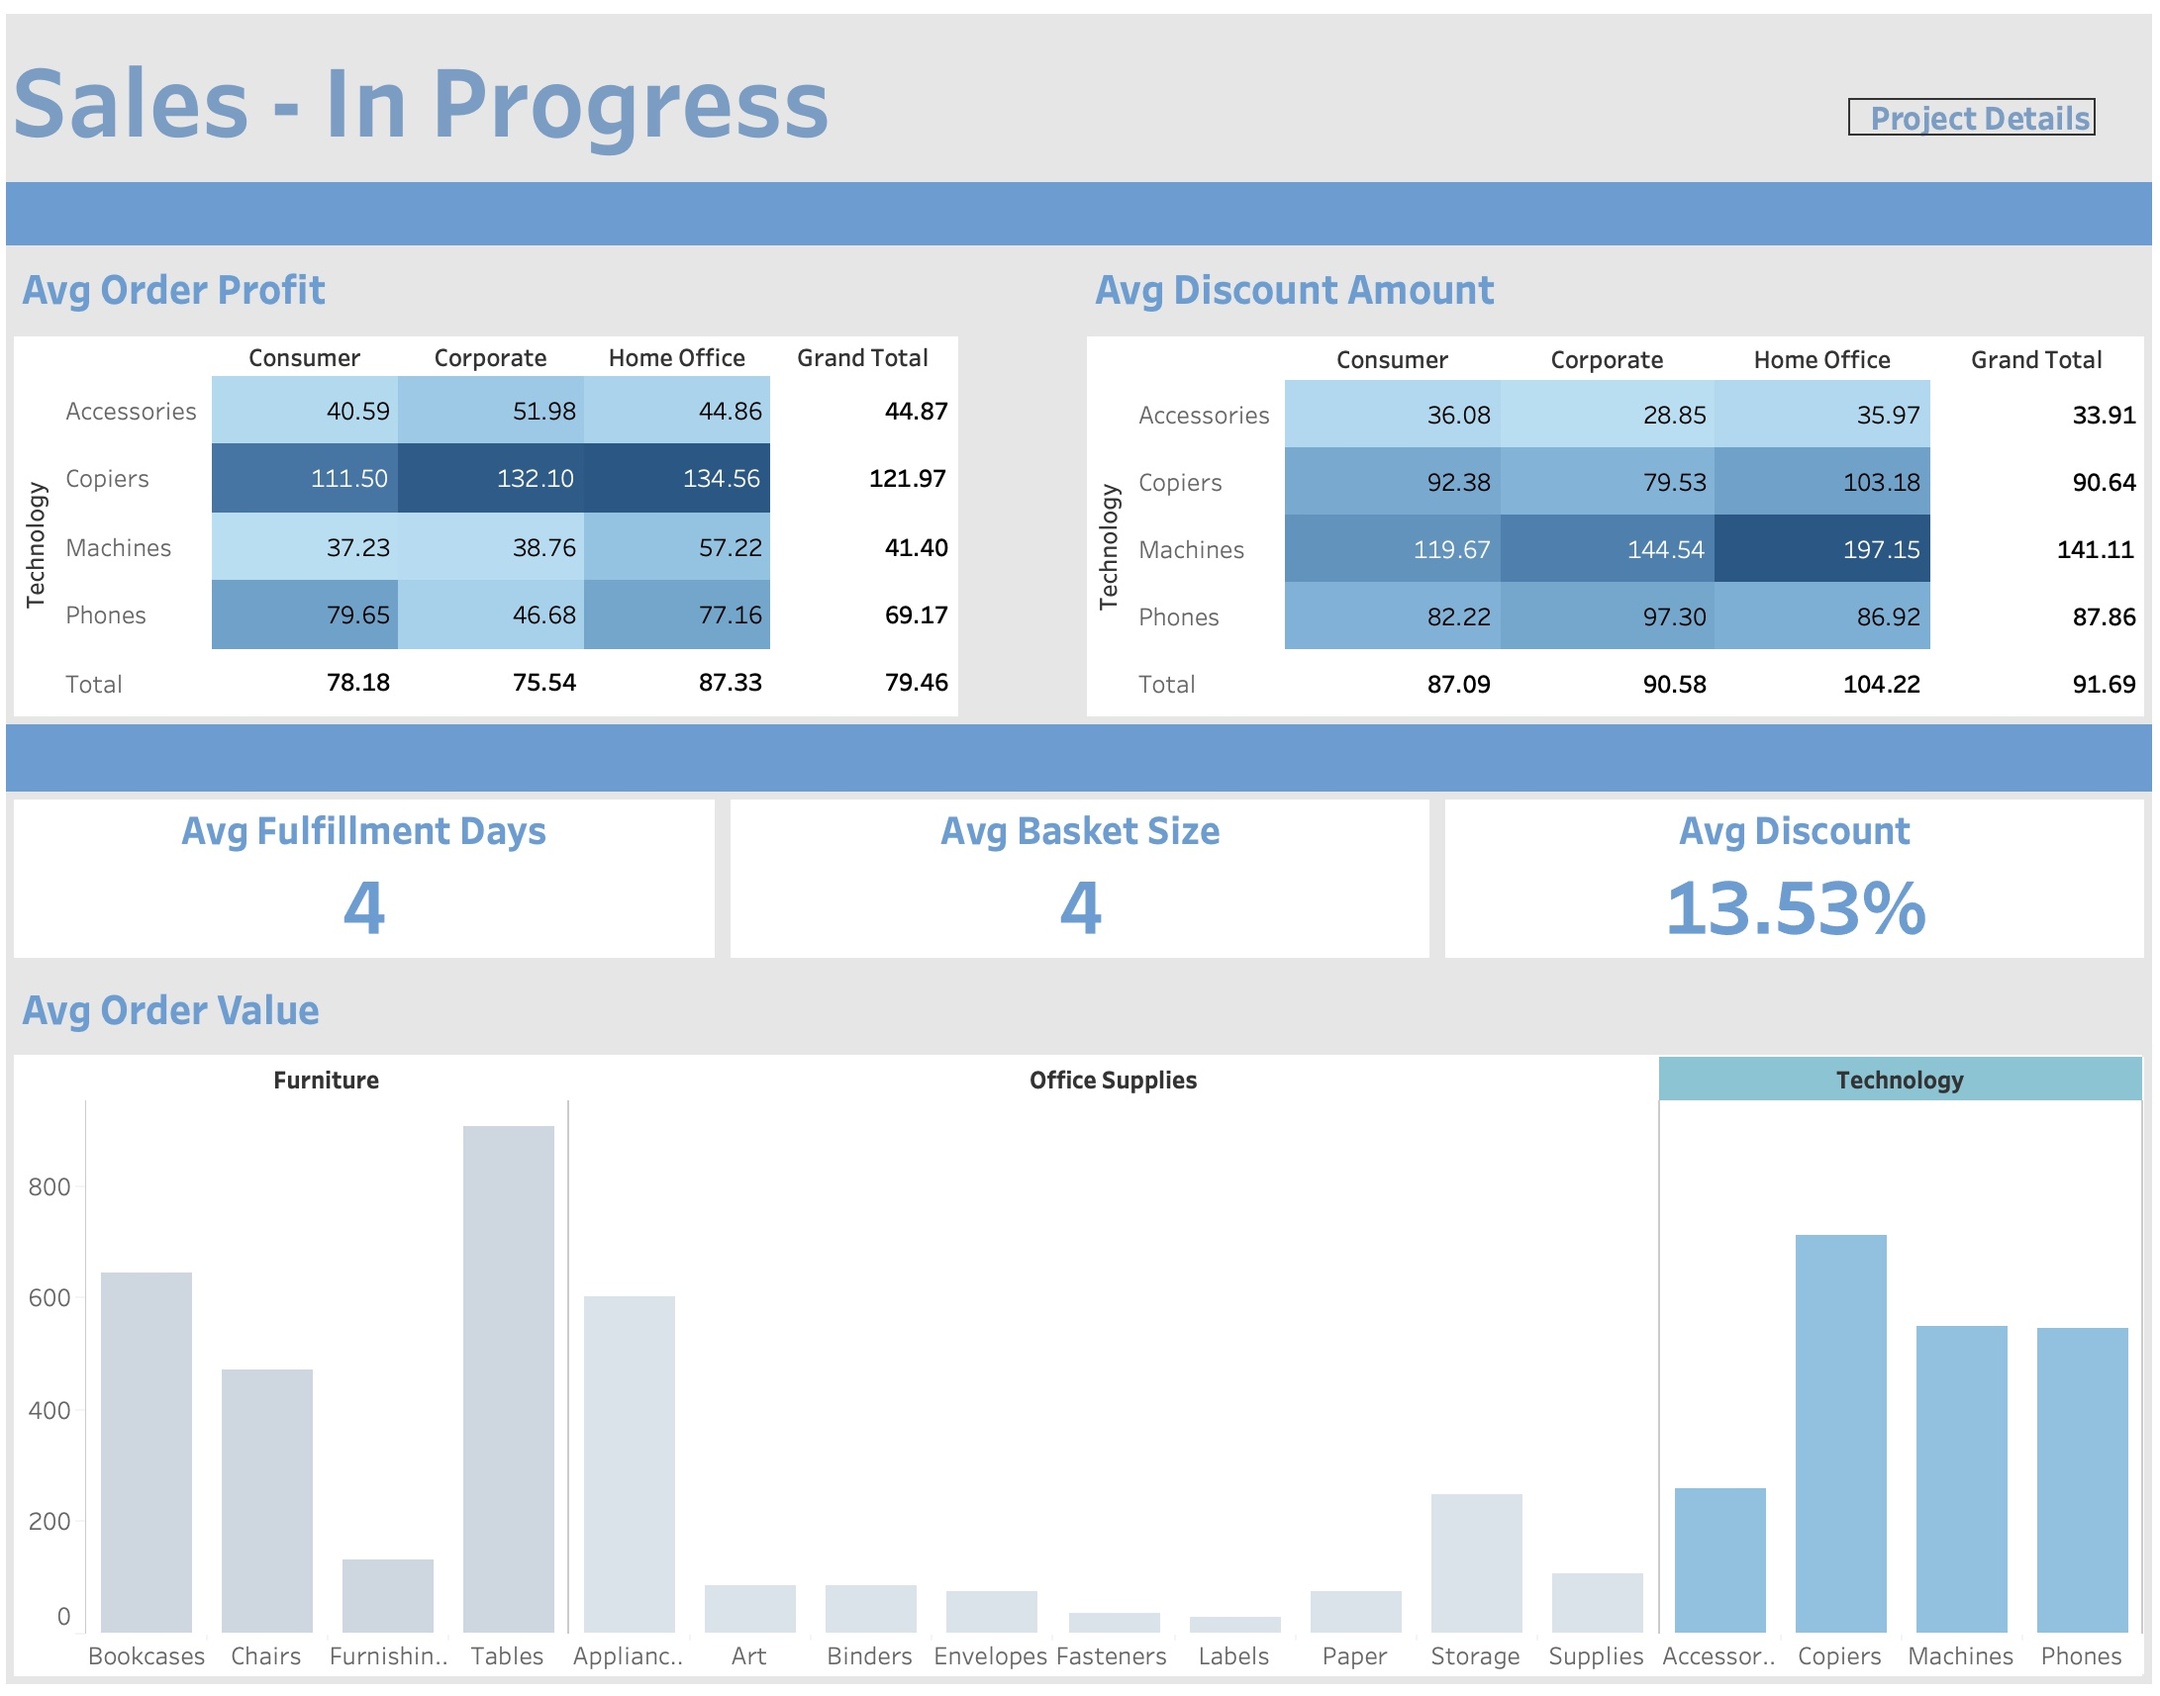
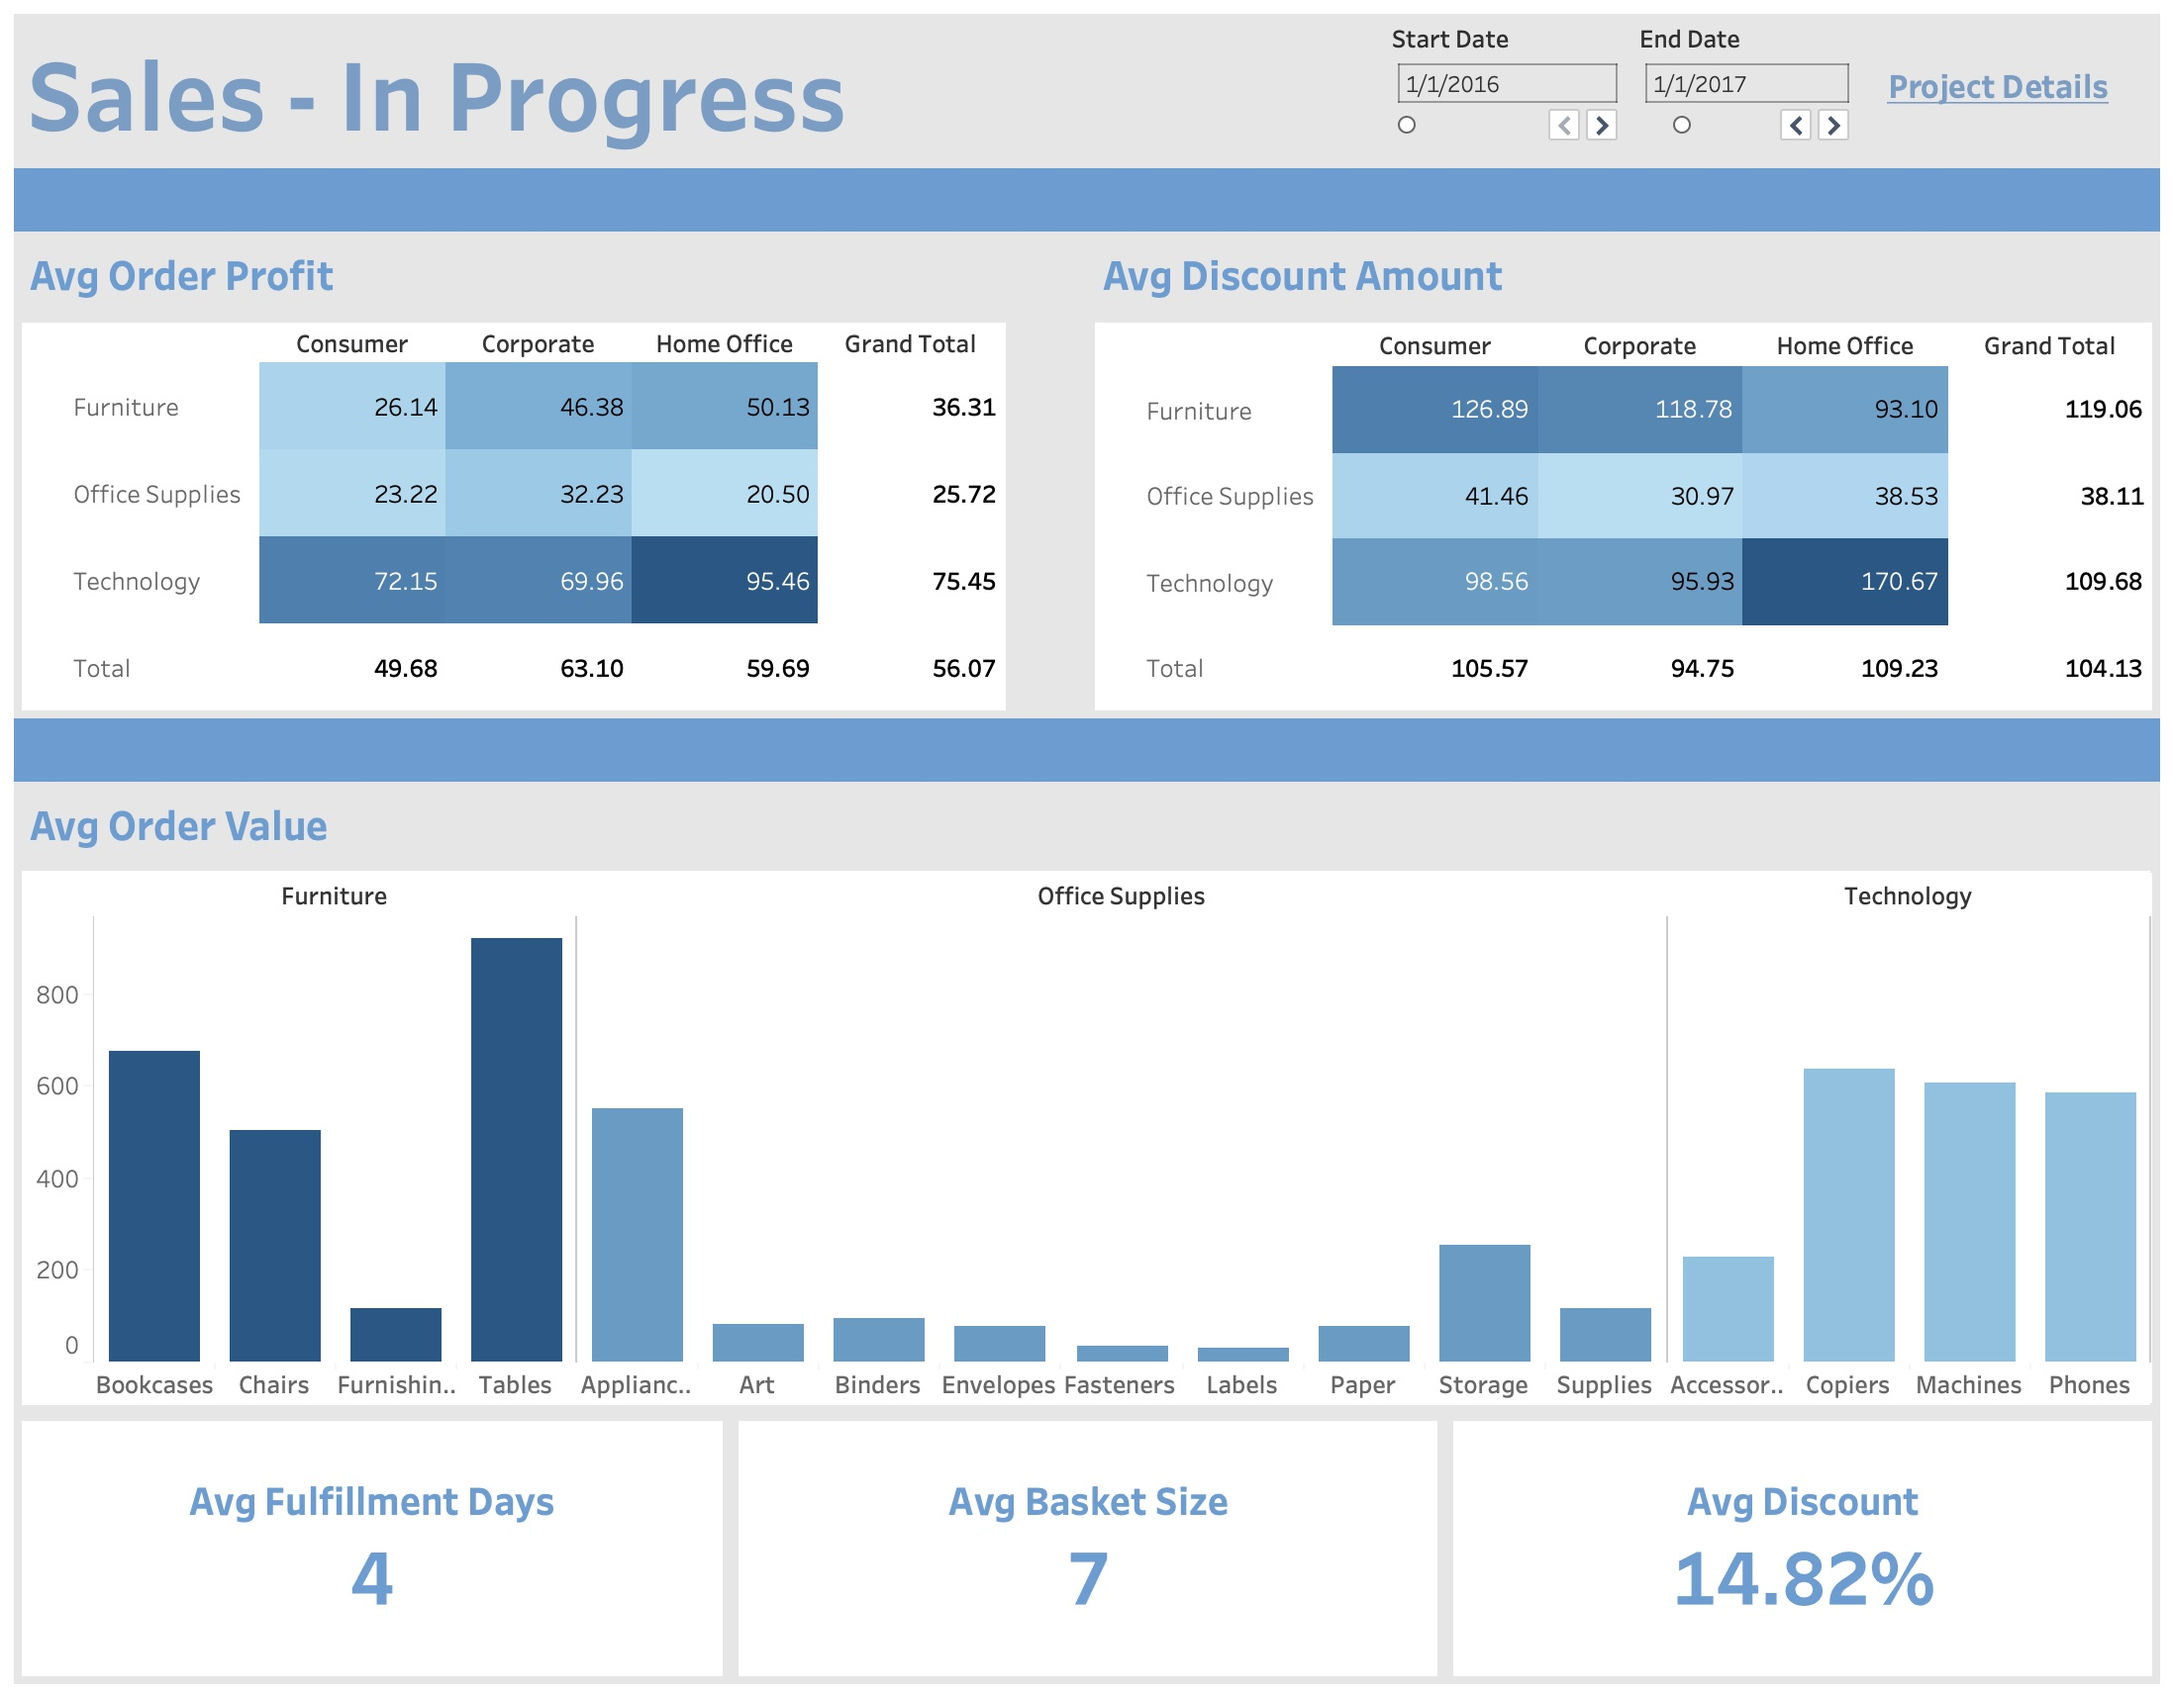
Began SQL Checks and Updated SneakPeak

diff --git a/README.md b/README.md
@@ -19,9 +19,41 @@ Sales
 4)Avg profit/order = Avg(order profit) = sum(profit)/countd(order id)
 5) Avg discount = Avg(order discount) = sum(discount amt)/countd(order id)
 6) Avg discount %
-Commission per Sales Rep
-* Options to Group by segment
-* Filter by date
+
+* Filter by Date, Category, and Sub-Category where appropriate.
+
+## SQL Checks (In progress)
+Save orders to a csv file and upoaded to BigQuery. Ran the following queries (among others) to confirm correct behavior and calculation assignments in Tableau.
+
+-- SELECT SUM(QUANTITY) 
+-- FROM `green-link-358414.Superstore.Orders` 
+-- LIMIT 1000
+
+-- SELECT COUNT(distinct(order_id)) 
+-- FROM `green-link-358414.Superstore.Orders` 
+-- LIMIT 1000
+
+-- SELECT SUM(Profit)/COUNT(DISTINCT(Order_ID)) 
+-- FROM `green-link-358414.Superstore.Orders` 
+-- WHERE Order_Date BETWEEN '2016-01-01' AND '2016-12-31'
+
+-- SELECT SUM(Profit)/COUNT(DISTINCT(Order_ID)) 
+-- FROM `green-link-358414.Superstore.Orders` 
+-- WHERE Order_Date BETWEEN '2016-01-01' AND '2016-12-31'
+-- AND Category = 'Furniture'
+
+-- SELECT SUM(Profit)/COUNT(DISTINCT(Order_ID)) 
+-- FROM `green-link-358414.Superstore.Orders` 
+-- WHERE Order_Date BETWEEN '2016-01-01' AND '2016-12-31'
+-- AND Category = 'Furniture'
+-- AND Segment = 'Corporate'
+
+-- SELECT SUM(Profit)/COUNT(DISTINCT(Order_ID)) 
+-- FROM `green-link-358414.Superstore.Orders` 
+-- WHERE Order_Date BETWEEN '2016-01-01' AND '2016-12-31'
+-- AND Category = 'Furniture'
+-- AND Segment = 'Corporate'
+-- AND Sub_Category = 'Tables'
 
 ## Resources
 [Luke Barosse's: My Tableau tutorial playlist](https://www.youtube.com/playlist?list=PL_CkpxkuPiT_sRLeU_5JSArjc0P1lGU2_)  (options/formatting)  
@@ -29,6 +61,8 @@ Commission per Sales Rep
 [How to Create a Single Column Hierarchy Drill Down Drill Up with Parameter Actions](https://www.youtube.com/watch?v=L140GRsQ-mY&list=PLdeA_5rmA1Ecl1MnWUsyuV3IjiPSOqbU7&index=12) (for category/sub-category drill down)  
 [Method 1: Insert a Hyperlink onto your Tableau Dashboard using textual/sheet with Actions](https://www.youtube.com/watch?v=-Mtb3WPBPSM) (for links)  
 [Tableau KPI dashboard Design for Business Dashboards](https://www.youtube.com/watch?v=WT-8TLEXpF4&list=PLdeA_5rmA1Ecl1MnWUsyuV3IjiPSOqbU7&index=13&t=469s) formatting  
-[Coursera](https://www.coursera.org/)\
+[](https://btprovider.com/how-to-disable-default-highlighting-in-tableau/)  
+[How To Create a Filter for Start and End Dates Using Parameters in Tableau](https://www.youtube.com/watch?v=hMsQ8TvVjo4) (date filters - applied to all sheets)  
+[Coursera](https://www.coursera.org/)  
 [Google Data Analytics Certificate Course](https://www.coursera.org/professional-certificates/google-data-analytics?utm_source=gg&utm_medium=sem&utm_campaign=15-GoogleDataAnalytics-US&utm_content=B2C&campaignid=12504215975&adgroupid=122709142687&device=c&keyword=coursera%20data%20analytics%20course&matchtype=b&network=g&devicemodel=&adpostion=&creativeid=504570191916&hide_mobile_promo&gclid=Cj0KCQjw94WZBhDtARIsAKxWG--aGc_mpu7WTeU8sHtAVT4D9k79qOSJOCdgcl3hVUqPH2zR1B2j8acaAovsEALw_wcB)  
 
